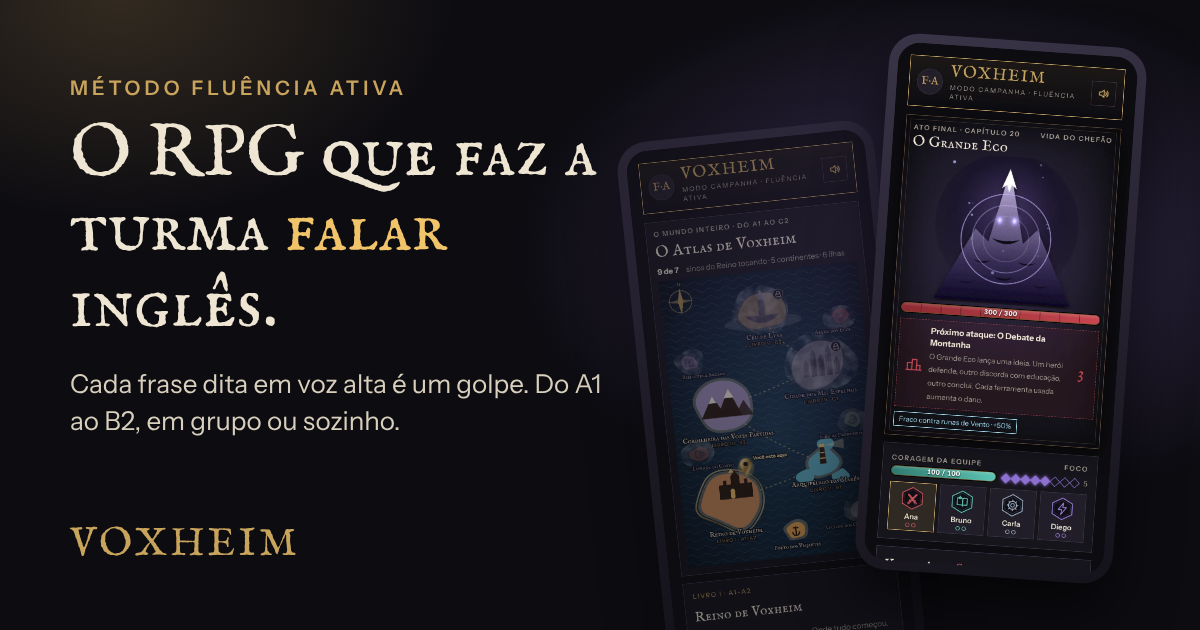
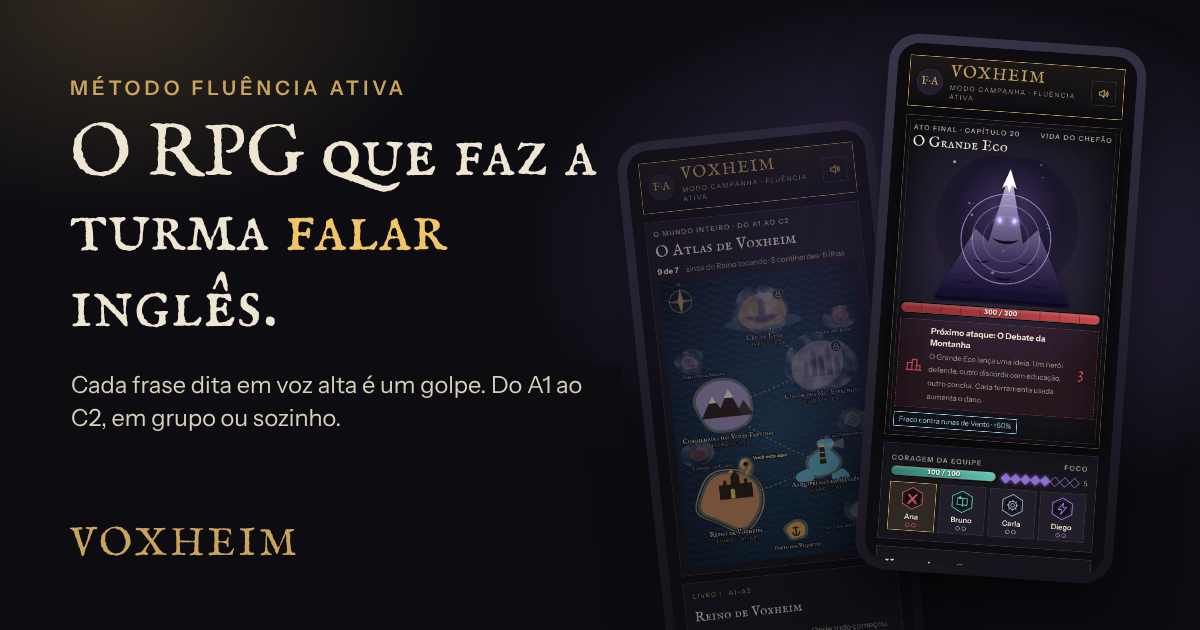
Página de vendas: os 5 livros, do A1 ao C2
Livros IV e V marcados como prontos, números atualizados (35 capítulos,
mais de 100 chefões), nivelamento e troféus nas perguntas, e a imagem
de compartilhamento com A1 ao C2.

Claude-Session: https://claude.ai/code/session_015V7MYjkuNLpkiPUUZ24cQW

Changed region(s): [[0.0617, 0.573, 0.4933, 0.6937]]

diff --git a/apresentacao/index.html b/apresentacao/index.html
@@ -4,11 +4,11 @@
 <meta charset="utf-8">
 <meta name="viewport" content="width=device-width, initial-scale=1, viewport-fit=cover">
 <title>Voxheim · O RPG que faz a turma falar inglês</title>
-<meta name="description" content="Voxheim transforma a aula de inglês numa campanha de RPG. Cada frase dita em voz alta é um golpe contra os chefões do Silêncio. Do A1 ao B2, em grupo ou sozinho.">
+<meta name="description" content="Voxheim transforma a aula de inglês numa campanha de RPG. Cada frase dita em voz alta é um golpe contra os chefões do Silêncio. Do A1 ao C2, em grupo ou sozinho.">
 <meta property="og:type" content="website">
 <meta property="og:title" content="Voxheim · O RPG que faz a turma falar inglês">
 <meta property="og:description" content="Uma campanha de RPG em que cada frase falada em inglês é um golpe. Para professores, escolas e quem trava na hora de falar.">
-<meta property="og:image" content="https://marcoslevysilveira.github.io/voxheim/apresentacao/og.png">
+<meta property="og:image" content="https://marcoslevysilveira.github.io/voxheim/apresentacao/og.png?v=2">
 <meta property="og:url" content="https://marcoslevysilveira.github.io/voxheim/apresentacao/">
 <meta name="twitter:card" content="summary_large_image">
 <meta name="theme-color" content="#0D0C11">
@@ -113,7 +113,7 @@ footer{border-top:1px solid var(--line);padding:28px 0;color:var(--ash);font-siz
   <h1>O RPG que faz a turma <em>falar</em> inglês.</h1>
   <p class="lead">Voxheim transforma a aula numa campanha de fantasia. Cada frase dita em voz alta é um golpe contra os chefões do Silêncio. Quem trava, perde coragem. Quem fala, vence.</p>
   <div class="cta"><a class="btn primary" href="../">Jogar a demonstração</a><a class="btn ghost" href="#para-quem" data-contact>Levar para a minha turma</a></div>
-  <div class="trust"><span>Do A1 ao B2</span><span>Em grupo ou sozinho</span><span>Funciona sem internet</span><span>Feito para o aluno brasileiro</span></div>
+  <div class="trust"><span>Do A1 ao C2</span><span>Em grupo ou sozinho</span><span>Funciona sem internet</span><span>Feito para o aluno brasileiro</span></div>
  </div>
  <div class="phones" aria-hidden="true">
   <div class="phone b"><img src="img/atlas.webp" alt="" width="390" height="844"></div>
@@ -148,12 +148,12 @@ footer{border-top:1px solid var(--line);padding:28px 0;color:var(--ash);font-siz
   <div class="f"><svg viewBox="0 0 32 32"><path d="M10 13a6 6 0 0 1 12 0c0 4-4 5-4 9a3 3 0 0 1-6 0"/><path d="M26 8c1 2 1 6 0 8"/></svg><h3>Pronúncia que se ouve</h3><p>O Eco escreve o que entendeu: diga “sink” querendo “think” e ele afunda a guilda. O Espelho compara a melodia da sua voz com a do modelo.</p></div>
   <div class="f"><svg viewBox="0 0 32 32"><circle cx="16" cy="11" r="5"/><path d="M8 27c0-5 4-8 8-8s8 3 8 8"/></svg><h3>Também sozinho</h3><p>No modo solo, dois companheiros erram de propósito para o aluno corrigir, e o reconhecimento de fala confere o que ele disse.</p></div>
   <div class="f"><svg viewBox="0 0 32 32"><path d="M16 4l10 4v8c0 6-4 10-10 12C10 26 6 22 6 16V8z"/><path d="M12 16l3 3 5-6"/></svg><h3>Funciona sem internet</h3><p>Abre no navegador, instala como app no celular e funciona offline. Sem cadastro e sem baixar nada da loja.</p></div>
-  <div class="f"><svg viewBox="0 0 32 32"><path d="M4 26l8-12 6 7 4-5 6 10z"/><circle cx="23" cy="8" r="3"/></svg><h3>Uma jornada inteira</h3><p>Do primeiro “I am” até debater uma ideia, em três livros, 21 capítulos, uma ilha extra e mais de 60 chefões.</p></div>
+  <div class="f"><svg viewBox="0 0 32 32"><path d="M4 26l8-12 6 7 4-5 6 10z"/><circle cx="23" cy="8" r="3"/></svg><h3>Uma jornada inteira</h3><p>Do primeiro “I am” até falar com a própria voz, em cinco livros, 35 capítulos, uma ilha extra e mais de 100 chefões.</p></div>
  </div>
 </div></section>
 
 <section><div class="wrap">
- <div class="head"><div class="kick">Por dentro do jogo</div><h2>Cada capítulo tem uma mecânica nova.</h2><p class="lead">Não é a mesma lição repetida com outra cor. Cada chefão final pede um jeito diferente de falar.</p></div>
+ <div class="head"><div class="kick">Por dentro do jogo</div><h2>Cada capítulo tem uma mecânica nova.</h2><p class="lead">Não é a mesma lição repetida com outra cor. Cada chefão final pede um jeito diferente de falar: do Eco Torto ao Termômetro do Tom, da Travessia do Oceano ao Discurso de 20 Segundos.</p></div>
  <div class="show">
   <div class="card"><div class="phone"><img src="img/eco.webp" alt="Tela do Eco Torto: o aluno disse they, o Eco entendeu day e mostra a dica de pronúncia" width="390" height="844" loading="lazy"></div><h3>O Eco Torto</h3><p>O aluno fala para o Eco, e o Eco mostra o que entendeu. “Ele entendeu day. Você queria they.” A dica de como pôr a boca aparece na hora.</p></div>
   <div class="card"><div class="phone"><img src="img/espelho.webp" alt="Tela do Espelho: a linha da melodia do modelo e a do aluno sobrepostas" width="390" height="844" loading="lazy"></div><h3>O Espelho da Montanha</h3><p>O aluno grava a frase e vê a melodia da própria voz sobre a do modelo. A pergunta subiu ou desceu no fim? O ritmo ficou parecido?</p></div>
@@ -169,20 +169,20 @@ footer{border-top:1px solid var(--line);padding:28px 0;color:var(--ash);font-siz
 </div></section>
 
 <section class="alt" id="jornada"><div class="wrap">
- <div class="head"><div class="kick">A jornada</div><h2>Um mundo inteiro, do A1 ao C2.</h2><p class="lead">Cada livro é um continente no Atlas de Voxheim, com sete regiões e um chefão final. Três já estão prontos para jogar.</p></div>
+ <div class="head"><div class="kick">A jornada</div><h2>Um mundo inteiro, do A1 ao C2.</h2><p class="lead">Cada livro é um continente no Atlas de Voxheim, com sete regiões e um chefão final. Os cinco estão prontos para jogar.</p></div>
  <div class="books">
   <div class="book on"><span class="lv">LIVRO I · A1–A2</span><h3>O Reino de Voxheim</h3><p>Apresentar-se, rotina, passado, futuro. Termina no Grande Silêncio.</p><span class="st">Pronto para jogar</span></div>
   <div class="book on"><span class="lv">LIVRO II · B1</span><h3>O Arquipélago das Marés</h3><p>Present perfect, comparações, conselhos, condicionais, phrasal verbs.</p><span class="st">Pronto para jogar</span></div>
   <div class="book on"><span class="lv">LIVRO III · B2</span><h3>A Cordilheira das Vozes Partidas</h3><p>Pronúncia, conditionals, voz passiva, reported speech e debate.</p><span class="st">Pronto para jogar</span></div>
-  <div class="book soon"><span class="lv">LIVRO IV · C1</span><h3>A Cidade dos Mil Espelhos</h3><p>Expressões, registro formal e informal, nuance, negociação.</p><span class="st">Em produção</span></div>
-  <div class="book soon"><span class="lv">LIVRO V · C2</span><h3>O Céu de Lyra</h3><p>Fluência plena, estilo e a última batalha pela própria voz.</p><span class="st">Em produção</span></div>
+  <div class="book on"><span class="lv">LIVRO IV · C1</span><h3>A Cidade dos Mil Espelhos</h3><p>Expressões, formal e informal, negociação, histórias, suavizar e enfatizar, sotaques.</p><span class="st">Pronto para jogar</span></div>
+  <div class="book on"><span class="lv">LIVRO V · C2</span><h3>O Céu de Lyra</h3><p>Ironia e humor, persuasão, improviso, registro de nativo, discurso e a última batalha pela própria voz.</p><span class="st">Pronto para jogar</span></div>
  </div>
 </div></section>
 
 <section id="para-quem"><div class="wrap">
  <div class="head"><div class="kick">Para quem</div><h2>Para quem ensina e para quem quer destravar.</h2></div>
  <div class="aud">
-  <div><h3>Professores particulares</h3><ul><li>Uma aula em grupo que os alunos pedem para repetir</li><li>Conteúdo pronto do A1 ao B2, em sequência</li><li>Turmas pequenas rendem mais: 2 a 4 alunos por guilda</li></ul></div>
+  <div><h3>Professores particulares</h3><ul><li>Uma aula em grupo que os alunos pedem para repetir</li><li>Conteúdo pronto do A1 ao C2, em sequência</li><li>Turmas pequenas rendem mais: 2 a 4 alunos por guilda</li></ul></div>
   <div><h3>Escolas de idiomas</h3><ul><li>Um diferencial para atrair e reter alunos</li><li>Prática de fala que complementa o material da escola</li><li>Funciona na TV da sala ou no celular de cada aluno</li></ul></div>
   <div><h3>Empresas e equipes</h3><ul><li>Treino de fala em grupo para quem usa inglês no trabalho</li><li>Sessões curtas, com começo, meio e fim</li><li>Modo solo para praticar entre os encontros</li></ul></div>
  </div>
@@ -196,7 +196,7 @@ footer{border-top:1px solid var(--line);padding:28px 0;color:var(--ash);font-siz
    <tr><td>Quanto o aluno fala</td><td>Pouco: muito toque na tela</td><td>Bastante</td><td>Bastante</td><td class="vx">Bastante, em voz alta e em grupo</td></tr>
    <tr><td>Jogo em grupo</td><td class="n">Não</td><td class="n">Não</td><td class="n">Não</td><td class="vx"><span class="y">Sim</span>, cooperativo, com professor</td></tr>
    <tr><td>Erros típicos do brasileiro</td><td class="n">Raramente</td><td class="n">Raramente</td><td>Depende do professor</td><td class="vx"><span class="y">No centro do método</span></td></tr>
-   <tr><td>Sequência gramatical</td><td>Leve</td><td>Variável</td><td>Depende do professor</td><td class="vx">Do A1 ao B2, capítulo a capítulo</td></tr>
+   <tr><td>Sequência gramatical</td><td>Leve</td><td>Variável</td><td>Depende do professor</td><td class="vx">Do A1 ao C2, capítulo a capítulo</td></tr>
    <tr><td>Prova de evolução</td><td>Pontos e sequência de dias</td><td>Relatórios</td><td>Percepção do professor</td><td class="vx">A própria voz, antes e depois</td></tr>
    <tr><td>Funciona sem internet</td><td>Em parte</td><td class="n">Não</td><td class="n">—</td><td class="vx"><span class="y">Sim</span></td></tr>
   </tbody></table></div>
@@ -206,7 +206,8 @@ footer{border-top:1px solid var(--line);padding:28px 0;color:var(--ash);font-siz
  <div class="head"><div class="kick">Perguntas</div><h2>Perguntas frequentes</h2></div>
  <details><summary>Precisa instalar alguma coisa?</summary><p>Não. O Voxheim abre no navegador do celular, do computador ou da TV. Se quiser, dá para instalar como app pelo próprio navegador, sem passar pela loja.</p></details>
  <details><summary>Precisa de professor?</summary><p>O jogo foi pensado para um professor conduzir uma guilda de 2 a 4 alunos. Também existe o modo solo, com dois companheiros virtuais e reconhecimento de fala, para o aluno praticar sozinho.</p></details>
- <details><summary>Para qual nível é?</summary><p>Hoje vai do A1 ao B2, em três livros. O aluno pode começar do zero ou entrar direto no livro do nível dele. Os livros C1 e C2 estão em produção.</p></details>
+ <details><summary>Para qual nível é?</summary><p>Do A1 ao C2, em cinco livros. O aluno pode começar do zero ou fazer o teste de nivelamento, a Prova dos Portões (uns 6 minutos), e entrar direto no livro do nível dele.</p></details>
+ <details><summary>Como acompanho a evolução de cada aluno?</summary><p>Cada aluno tem a sua Jornada, com as frases praticadas, aprendidas e fixadas, e um troféu por capítulo, de bronze a platina. A platina só vem com frases fixadas em dias diferentes. E no fim de cada livro, o Momento Miyagi compara a voz do aluno no começo e no fim.</p></details>
  <details><summary>Funciona sem internet?</summary><p>Sim. Depois de aberto uma vez, o jogo fica guardado no aparelho, e as vozes de cada capítulo ficam guardadas assim que ele é jogado. Só o reconhecimento de fala depende da internet, e funciona melhor no Chrome.</p></details>
  <details><summary>Quanto custa?</summary><p>O Voxheim está em fase de piloto com as primeiras turmas. Fale com a gente para conhecer as condições para professores, escolas e empresas.</p></details>
 </div></section>
